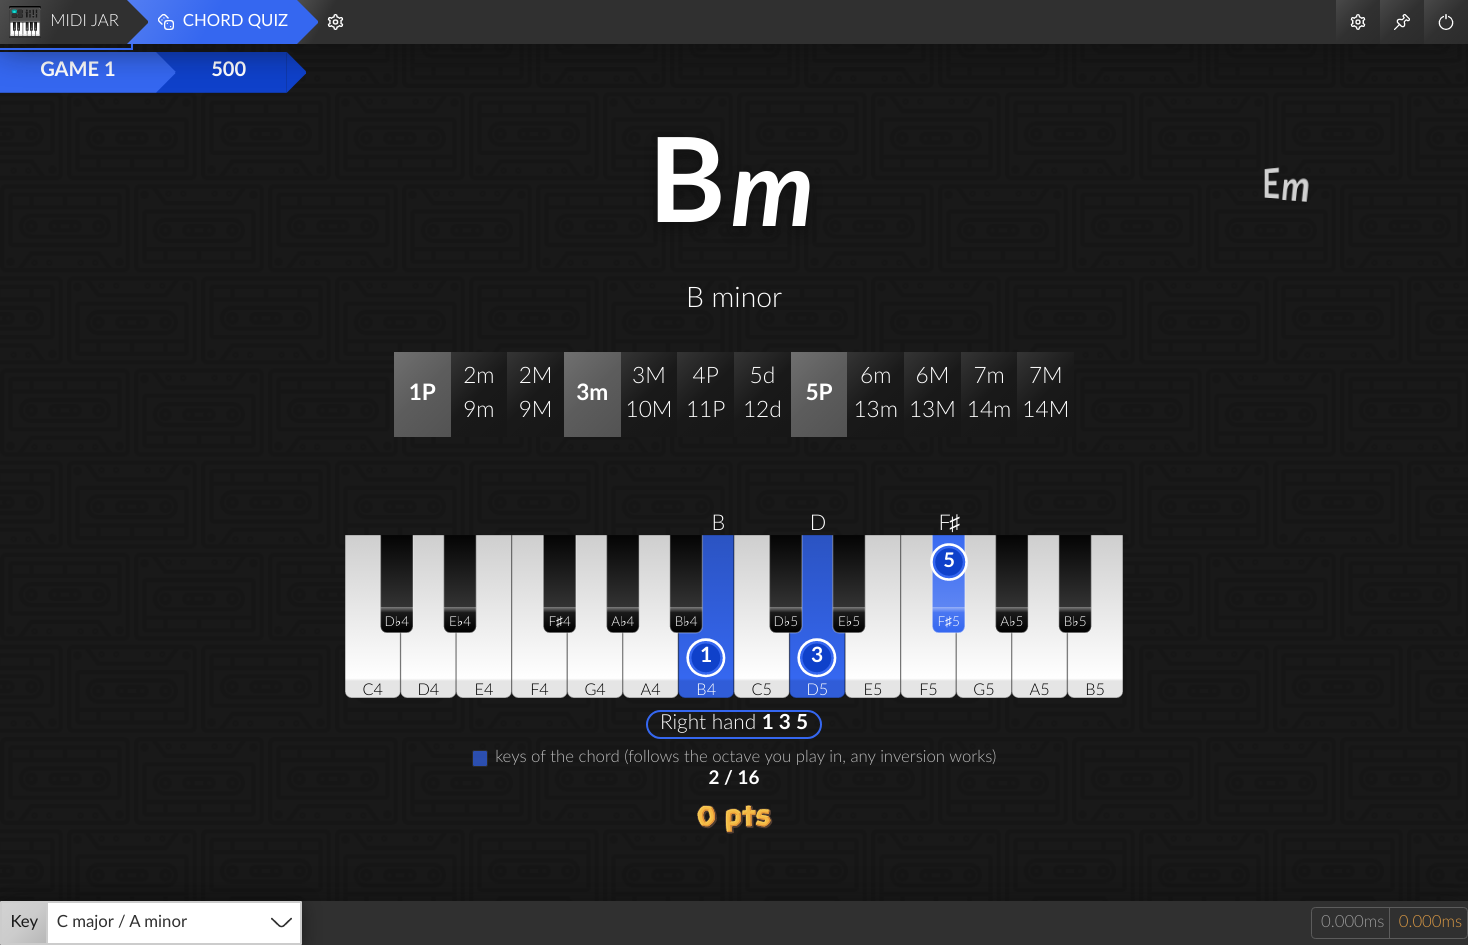
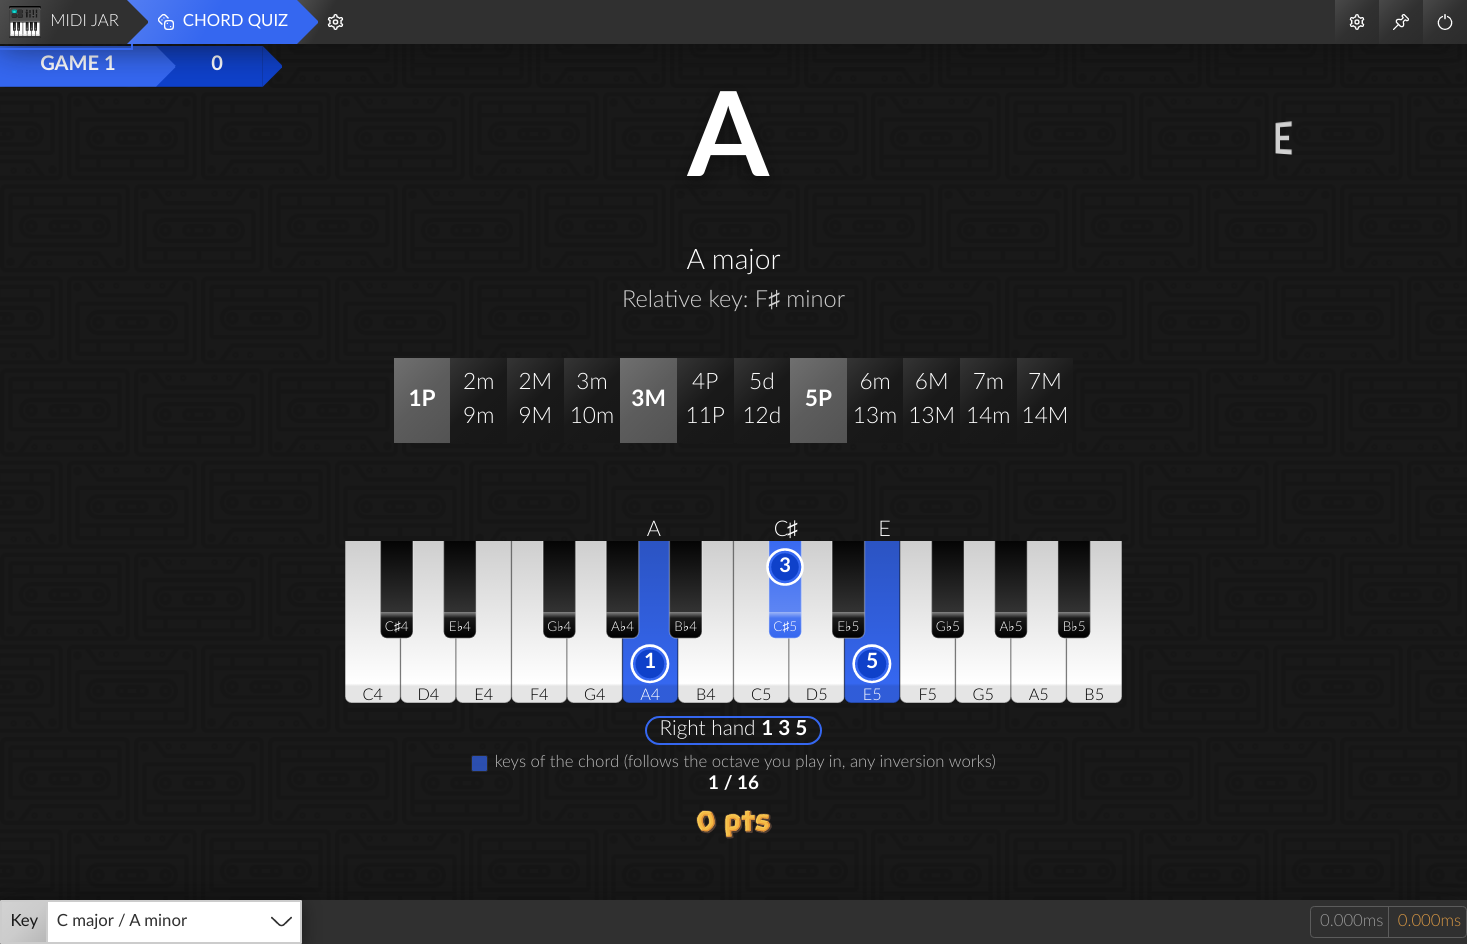
feat(ChordQuiz): retry until correct option, relative key spacing, new screenshots
- Chord Quiz: "Retry until correct" option, stays on the chord after a wrong
  answer until the right chord is played
- Chord Quiz: fix the relative key overlapping the chord name on tall windows
- README: Scale Quiz and learning mode screenshots showing relative keys

diff --git a/src/renderer/hooks/useQuiz/useQuiz.ts b/src/renderer/hooks/useQuiz/useQuiz.ts
@@ -33,6 +33,8 @@ interface State {
   parameters: Parameters;
   games: Game[];
   gameState: GameState;
+  /** wrong answers on the current chord */
+  attempts: number;
 }
 
 function reducer(state: State, action: Action): State {
@@ -50,6 +52,7 @@ function reducer(state: State, action: Action): State {
         ...state,
         parameters,
         games: [game],
+        attempts: 0,
         gameState: {
           gameIndex: 0,
           index: 0,
@@ -93,11 +96,29 @@ function reducer(state: State, action: Action): State {
       if (gameStateStatus > -1) {
         const games = [...state.games];
         const currentGame = games[state.gameState.gameIndex];
+        const correct = gameStateStatus >= STATUSES.equal;
+        const { score } = state.gameState;
 
-        if (gameStateStatus > 1) {
+        // wrong or incomplete chord: stay on it until the right chord is played
+        if (!correct && state.parameters.retryUntilCorrect) {
+          currentGame.score += score;
+          return {
+            ...state,
+            games,
+            attempts: state.attempts + 1,
+            gameState: {
+              ...state.gameState,
+              status: STATUSES.none,
+              chord: null,
+              score: 0,
+            },
+          };
+        }
+
+        if (correct) {
           currentGame.succeeded += 1;
         }
-        currentGame.score += state.gameState.score;
+        currentGame.score += score;
         currentGame.played.push(state.gameState.chord);
 
         if (state.gameState.index + 2 >= currentGame.chords.length) {
@@ -111,6 +132,7 @@ function reducer(state: State, action: Action): State {
         return {
           ...state,
           games,
+          attempts: 0,
           gameState: {
             gameIndex:
               state.gameState.index + 1 === currentGame.chords.length
@@ -151,6 +173,7 @@ const defaultState: State = {
     accidentals: defaults.settings.notation.accidentals,
   },
   games: [],
+  attempts: 0,
   gameState: {
     gameIndex: 0,
     index: 0,

diff --git a/src/renderer/views/ChordQuiz/ChordQuiz.tsx b/src/renderer/views/ChordQuiz/ChordQuiz.tsx
@@ -21,7 +21,12 @@ const ChordQuiz: React.FC = () => {
 
   const { chords, pitchClasses, playedMidiNotes, sustainedMidiNotes, midiNotes } = useNotes();
 
-  const { games, gameState } = useQuiz(pitchClasses, chords, quizSettings, notationSettings);
+  const { games, gameState, attempts } = useQuiz(
+    pitchClasses,
+    chords,
+    quizSettings,
+    notationSettings
+  );
 
   const chordElements = useMemo(
     () =>
@@ -142,6 +147,11 @@ const ChordQuiz: React.FC = () => {
       <div className={cx('playedContainer')}>
         <div className={cx('progress')}>
           {gameState.index + 1} / {games[gameState.gameIndex].chords.length}
+          {quizSettings.retryUntilCorrect && attempts > 0 && (
+            <span className={cx('retry')}>
+              {' · '}Try again ({attempts} {attempts === 1 ? 'miss' : 'misses'})
+            </span>
+          )}
         </div>
         {quizSettings.gamification && <div className={cx('score')}>{gameState.score} pts</div>}
         <div className={cx('playedChord')}>

diff --git a/src/renderer/views/Settings/ChordQuizSettings/ChordQuizSettings.tsx b/src/renderer/views/Settings/ChordQuizSettings/ChordQuizSettings.tsx
@@ -73,6 +73,17 @@ const ChordQuizSettings: React.FC = () => {
           </FormField>
 
           <FormControlLabel
+            label="Retry until correct"
+            hint="Stays on the chord after a wrong answer, until the right chord is played (each miss still loses points)"
+            reverse
+          >
+            <Switch
+              onChange={(value) => updateSetting('chordQuiz.retryUntilCorrect', value)}
+              checked={settings.chordQuiz.retryUntilCorrect}
+            />
+          </FormControlLabel>
+
+          <FormControlLabel
             label="Learning Mode"
             hint="Displays a piano keyboard with the keys of the chord to play"
             reverse

diff --git a/src/renderer/views/ChordQuiz/ChordQuiz.module.scss b/src/renderer/views/ChordQuiz/ChordQuiz.module.scss
@@ -84,6 +84,10 @@ $View_ChordQuiz_textShadow: 0 0.05em 0.1em rgba($color-black, 0.6) !default;
   width: auto;
 }
 
+.retry {
+  color: $color-danger-light;
+}
+
 /** Chord section **/
 
 .chord {
@@ -151,12 +155,16 @@ $View_ChordQuiz_textShadow: 0 0.05em 0.1em rgba($color-black, 0.6) !default;
   font-weight: bold;
 }
 
+// the app sets a fixed line-height globally: big text would overlap the next line
 .chordName {
   font-size: min(3vh, 3vw);
+  line-height: 1.3;
 }
 
 .relativeKey {
+  margin-top: 0.2em;
   font-size: min(2.5vh, 2.5vw);
+  line-height: 1.3;
   opacity: 0.8;
 }
 

diff --git a/src/main/types/Settings.ts b/src/main/types/Settings.ts
@@ -55,6 +55,8 @@ export type ChordQuizSettings = {
   learningMode: boolean;
   fingering: Fingering;
   displayRelative: boolean;
+  /** stays on the chord after a wrong answer, until the right chord is played */
+  retryUntilCorrect: boolean;
 };
 
 export type ScaleSet =

diff --git a/src/main/store/defaults.ts b/src/main/store/defaults.ts
@@ -64,6 +64,7 @@ export const defaultChordQuizSettings: ChordQuizSettings = {
   learningMode: false,
   fingering: 'right' as const,
   displayRelative: false,
+  retryUntilCorrect: false,
 };
 
 export const defaultScaleQuizSettings: ScaleQuizSettings = {

diff --git a/src/main/store/migrations.ts b/src/main/store/migrations.ts
@@ -362,6 +362,7 @@ const migrations: Migrations<StoreType> = {
         learningMode: false,
         fingering: 'right',
         displayRelative: false,
+        retryUntilCorrect: false,
         ...settings.chordQuiz,
       },
       scaleQuiz: {

diff --git a/README.md b/README.md
@@ -330,6 +330,10 @@ And finally, to adapt your training, you can choose the difficulty, each levels 
 - `Very Hard`: maj6/9add#11, maj9b5, maj9#9, majb9#9, maj#11b9, maj11#9, maj13#11, min9#5, min11#5, min13#5, min11b11, minmaj9addb13, minmaj11addb13, minmaj9#11, minmaj11b11, min9b5, min7b5b9, min11b5, dom9b5, dom11b5, dom13b5, dom9#11, dom9addb13, dom7b9#9, dom7b9#11, dom7b9b13, dom11b13, dom13#9, dom13#11, dom11susb2, dom7sus4addb13, aug9, aug11, aug13, augmaj9, augadd#9, augmaj7b9, aug7b9, augsus4add7
 - `All Chords`: the rest of the dictionary
 
+### Retry until correct
+
+Turn on `Retry until correct` to stay on the same chord after a wrong answer, until you play it right (each miss still loses points).
+
 ### Learning Mode
 
 Turn on `Learning Mode` to display a piano keyboard with the keys of the chord to play, and the finger numbers for the right hand, the left hand or both (1 is the thumb, 5 is the pinky). The keyboard follows the octave you play in, and any inversion of the chord is accepted.
